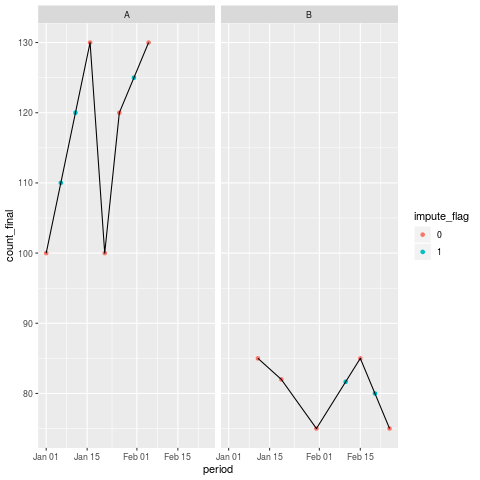
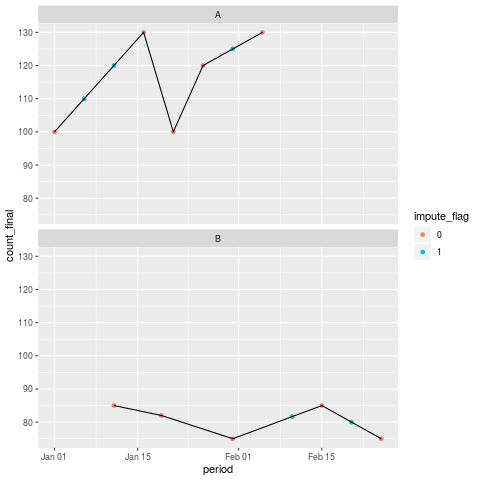
Fix image/tab display to match visualisation page

diff --git a/ons-spark/spark-analysis/interpolation.md b/ons-spark/spark-analysis/interpolation.md
@@ -121,53 +121,43 @@ df <- df %>%
 pdf[pdf["area_code"]=="A"].plot(marker="o")
 pdf[pdf["area_code"]=="B"].plot(marker="o")
 ```
-```{code-tab} r R
-ggplot(df, mapping = aes(x = period, y = count)) +
-  geom_point() +
-  geom_line() +
-  facet_wrap(~area_code)
-```
 ````
 
-# figure out adding pictures - check joins page
-#    <matplotlib.axes._subplots.AxesSubplot at 0x7f1eeac0d860>
-
-````{tabs}
-```{code-tab} markdown Python
-![Chart showing value of count for area "A" above and area "B" below. Values are represented by dots and these are joined up by a line. Some values are not joined up to the line due to missing values in between points.](../images/interpolation_pyplot_beforeA.png "Plot of pdf in Python")
-```
-```{code-tab} markdown R
-![Chart showing value of count for area "A" on the left hand side and area "B" on the right. Values are represented by dots and these are joined up by a line. Some values are not joined up to the line due to missing values in between points.](../images/interpolation_rplot_before.png "Plot of df in R")
-```
-````
-
-
-````{tabs}
 ```{figure} ../images/interpolation_pyplot_beforeA.png
 ---
-width: 50%
+width: 80%
 name: Plot of pdf in Python
-alt: Chart showing value of count for area "A" on the left hand side and area "B" on the right. Values are represented by dots and these are joined up by a line. Some values are not joined up to the line due to missing values in between points. 
+alt: Chart showing value of count for area "A" above and area "B" below. Values are represented by dots and these are joined up by a line. Some values are not joined up to the line due to missing values in between points. 
 ---
 ```
 ```{figure} ../images/interpolation_pyplot_beforeB.png
 ---
-width: 50%
+width: 80%
 name: Plot of pdf in Python
-alt: Chart showing value of count for area "A" on the left hand side and area "B" on the right. Values are represented by dots and these are joined up by a line. Some values are not joined up to the line due to missing values in between points. 
+alt: Chart showing value of count for area "A" above and area "B" below. Values are represented by dots and these are joined up by a line. Some values are not joined up to the line due to missing values in between points. 
 ---
 Python
 ```
 
+
+````{tabs}
+```{code-tab} r R
+ggplot(df, mapping = aes(x = period, y = count)) +
+  geom_point() +
+  geom_line() +
+  facet_wrap(~area_code, nrow = 2)
+```
+````
+
 ```{figure} ../images/interpolation_rplot_before.png
 ---
-width: 100%
+width: 80%
 name: Plot of df in R
-alt: Chart showing value of count for area "A" on the left hand side and area "B" on the right. Values are represented by dots and these are joined up by a line. Some values are not joined up to the line due to missing values in between points. 
+alt: Chart showing value of count for area "A" above and area "B" below. Values are represented by dots and these are joined up by a line. Some values are not joined up to the line due to missing values in between points. 
 ---
 R
 ```
-````
+
 
 As you can see, the lines don't meet all the points becuase there are missing counts in between.
 
@@ -289,10 +279,6 @@ sdf <- sdf %>%
                      coalesce(timestamp_with_nulls, lead(timestamp_with_nulls, 2)), 
                      period_bf)) %>%
   ungroup()
-  
-                     
-
-}
 
 
 ```
@@ -474,43 +460,44 @@ Once again, we will plot the series with pandas/ggplot. The original data are pl
 pdf[pdf["area_code"] == "A"].drop("impute_flag", axis=1).plot(style={"count":"ro", "count_final":"b+-"}, alpha=0.5)
 pdf[pdf["area_code"] == "B"].drop("impute_flag", axis=1).plot(style={"count":"ro", "count_final":"b+-"}, alpha=0.5)
 ```
+````
+
+```{figure} ../images/interpolation_pyplot_afterA.png
+---
+width: 80%
+name: Plot of pdf in Python
+alt: Chart showing value of count for area "A" above and area "B" below. All values are now connected by a line. 
+---
+```
+```{figure} ../images/interpolation_pyplot_afterB.png
+---
+width: 80%
+name: Plot of pdf in Python
+alt: Chart showing value of count for area "A" above and area "B" below. All values are now connected by a line. 
+---
+Python
+```
+
+````{tabs}
 ```{code-tab} r R
 ggplot(df, mapping = aes(x = period, y = count_final)) +
   geom_point(aes(colour = factor(impute_flag))) +
   scale_fill_manual(values = c("red", "blue")) +
   geom_line() +
   labs(colour = "impute_flag") +
-  facet_wrap(~area_code)
+  facet_wrap(~area_code, nrow = 2)
 ```
 ````
-### figure out how to get images to display properly
-
-````{tabs}
-```{figure} ../images/interpolation_pyplot_afterA.png
----
-width: 50%
-name: Plot of pdf in Python
-alt: Chart showing value of count for area "A" on the left hand side and area "B" on the right. All values are connected by a line. 
----
-```
-```{figure} ../images/interpolation_pyplot_afterB.png
----
-width: 50%
-name: Plot of pdf in Python
-alt: Chart showing value of count for area "A" on the left hand side and area "B" on the right. All values are connected by a line. 
----
-Python
-```
 
 ```{figure} ../images/interpolation_rplot_after.png
 ---
-width: 100%
+width: 800%
 name: Plot of df in R
-alt: Chart showing value of count for area "A" on the left hand side and area "B" on the right. All values are connected by a line.
+alt: Chart showing value of count for area "A" above and area "B" below. All values are now connected by a line.
 ---
 R
 ```
-````
+
 
 ## Further resources
 
